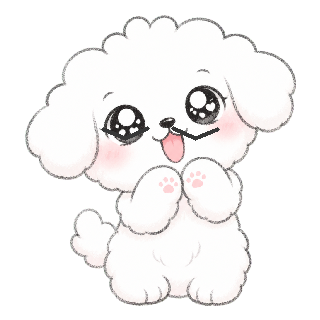
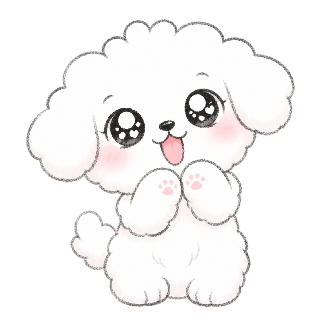
fix: hide pet controls until hover

diff --git a/apps/desktop/src/styles.css b/apps/desktop/src/styles.css
@@ -85,6 +85,9 @@ button {
   background: rgba(31, 49, 57, 0.82);
   box-shadow: 0 4px 14px rgba(19, 34, 40, 0.18);
   backdrop-filter: blur(8px);
+  opacity: 0;
+  pointer-events: none;
+  transition: opacity 140ms ease;
 }
 
 .status-rail span {
@@ -114,14 +117,25 @@ button {
   left: 50%;
   bottom: 7px;
   display: grid;
-  grid-template-columns: repeat(4, 36px);
+  grid-template-columns: repeat(4, 72px);
   gap: 8px;
   transform: translateX(-50%);
+  opacity: 0;
+  pointer-events: none;
+  transition: opacity 140ms ease;
+}
+
+.pet-window:hover .status-rail,
+.pet-window:hover .pet-controls,
+.pet-window:focus-within .status-rail,
+.pet-window:focus-within .pet-controls {
+  opacity: 1;
+  pointer-events: auto;
 }
 
 .pet-controls button {
-  width: 36px;
-  height: 36px;
+  width: 72px;
+  height: 72px;
   display: grid;
   place-items: center;
   padding: 0;
@@ -135,7 +149,7 @@ button {
 }
 
 .pet-controls button:hover:not(:disabled) {
-  transform: translateY(-2px);
+  transform: translateY(-3px);
   background: #ffffff;
 }
 
@@ -150,8 +164,8 @@ button {
 }
 
 .pet-controls svg {
-  width: 18px;
-  height: 18px;
+  width: 36px;
+  height: 36px;
 }
 
 .avatar-library-window {

diff --git a/docs/iterations/ITERATION-01B-hover-ui-blink-fix.md b/docs/iterations/ITERATION-01B-hover-ui-blink-fix.md
@@ -1,0 +1,67 @@
+# Iteration 01B：Hover 控件与小狗闪线修正
+
+## 状态
+
+已完成，等待用户验收。
+
+## 目标
+
+- 只有鼠标移动到桌宠窗口上，或键盘 focus 到桌宠控件时，才显示顶部状态栏和底部互动按钮。
+- 底部互动按钮视觉尺寸放大为当前版本的两倍。
+- 修复小狗每隔几秒脸上闪过黑色折线的问题。
+
+## 判断
+
+黑色折线大概率来自 `cute-dog` 生成脚本里的 blink/sleeping 本地叠加线条。状态机每隔几秒进入 blink，导致线条短暂显示在小狗脸上。本轮移除这类跨脸闭眼提示，blink 只做轻量帧切换，不再绘制额外黑线。
+
+## 允许修改范围
+
+```text
+assets/pet/cute-dog/generate-assets.mjs
+assets/pet/cute-dog/*.png
+apps/desktop/src/styles.css
+docs/iterations/ITERATION-01B-hover-ui-blink-fix.md
+```
+
+如验证发现必须触及其他文件，需要先在本文档记录原因。
+
+## 非目标
+
+- 不改变后端状态规则。
+- 不改变形象库、头像注册、Tauri 窗口尺寸或托盘行为。
+- 不新增动作、聊天、RAG、窗口分析或其他产品功能。
+- 不重新生成 AI 小狗主图，只基于现有透明源图重建帧。
+
+## 验收点
+
+1. 默认不显示顶部状态栏和底部按钮。
+2. 鼠标 hover 到桌宠窗口或控件 focus 时显示状态栏和按钮。
+3. 底部按钮视觉尺寸为当前版本两倍。
+4. 小狗 blink 时不再出现黑色折线穿过脸。
+5. 资源校验、前端构建和桌面运行验证通过。
+
+## 完成记录
+
+实际修改：
+
+- `apps/desktop/src/styles.css`
+  - 顶部状态栏和底部互动按钮默认隐藏。
+  - `.pet-window:hover` 与 `.pet-window:focus-within` 时显示状态栏和按钮。
+  - 底部互动按钮从 `36px` 放大到 `72px`，在主窗口 `0.5` 缩放后视觉尺寸为当前版本两倍。
+- `assets/pet/cute-dog/generate-assets.mjs`
+  - 删除 `addClosedEyeHint` 黑色折线叠加。
+  - `blink.png` 改为轻微缩放/位移帧，不再画额外黑线。
+  - `sleeping.png` 保留金色 `Z` 提示，但不再叠加黑色闭眼折线。
+- 重新生成 `assets/pet/cute-dog/*.png`。
+
+验证命令：
+
+- `npm --workspace apps/desktop run assets:generate`
+- `npm --workspace apps/desktop run assets:check`
+- `npm run build`
+
+验证结果：
+
+- `cute-dog` 8 个动作帧通过尺寸和透明角校验。
+- `blink.png` 已人工检查，无黑色折线穿过脸。
+- 前端 TypeScript/Vite 构建通过。